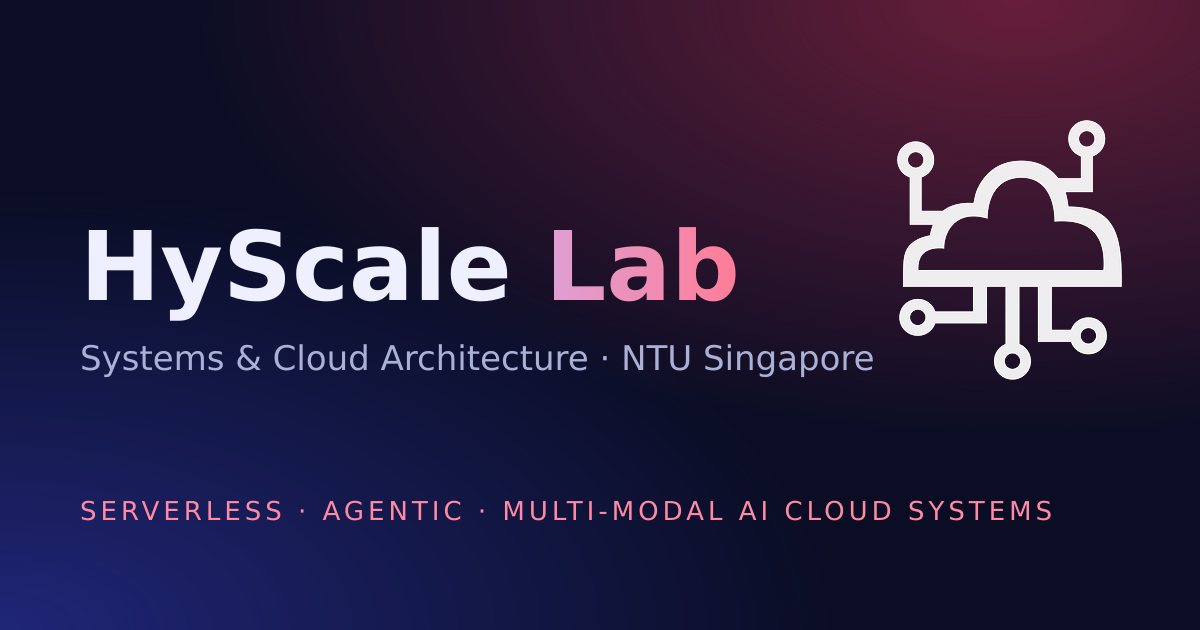
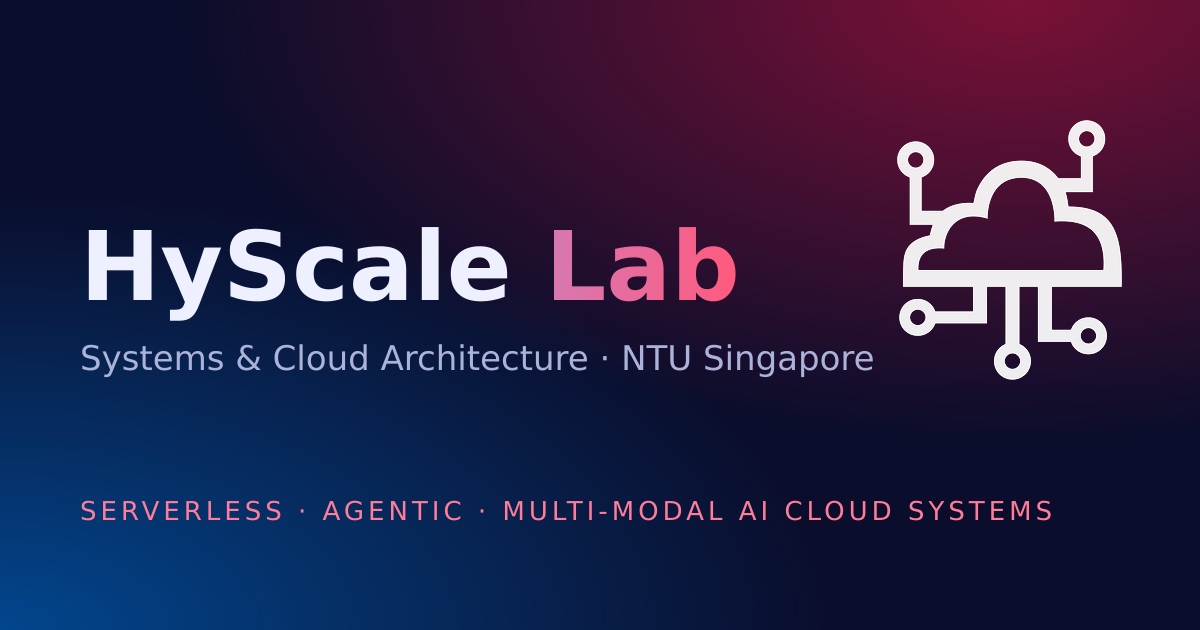
Adopt the NTU brand palette
Primary colours from the NTU brand guide (2018): NTU Red #D71440 is the
accent (main buttons, highlights, labels) and NTU Blue #181C62, already the
HyScale logo navy, is the strong brand colour and tints the dark bands.
Links use NTU secondary blue #0054A6 (#5DA9DD in dark mode) so they stand
apart from body text. Gradients, glows and the card accent bar use NTU
secondary colours, and so do the venue badges.

Award badges get a lighter pink background so NTU Red text passes WCAG AA,
and venue badges get a faint outline in dark mode so NTU Blue shows. The
link-preview image and icons are regenerated in the new palette.

Changed region(s): [[0.0, 0.8143, 0.185, 1.0], [0.4625, 0.3619, 0.6167, 0.4825]]

diff --git a/src/styles/global.css b/src/styles/global.css
@@ -10,38 +10,40 @@
  * THEME COLOURS LIVE HERE. Change a value below and the whole site follows.
  *   :root     light theme (default)       .dark   dark theme
  *   @theme    dark bands (hero, page headers, CTA, footer) and gradients
- * Colours come from the HyScale logo: navy cloud (#171d63), slate wordmark
- * (#3b3a5a) and crimson brackets (#a82e48). Light is the default palette;
- * `.dark` swaps the same tokens. Components use the Tailwind names below
- * (bg-surface, text-muted, border-line, …), never raw hex values. */
+ * Palette follows the NTU brand guide (2018): NTU Blue #181C62 (also the
+ * HyScale logo navy) and NTU Red #D71440 are the primary colours; the other
+ * hues come from NTU's secondary palette (blues #0054A6, #5DA9DD, magenta
+ * #A5247F). Light is the default palette; `.dark` swaps the same tokens.
+ * Components use the Tailwind names below (bg-surface, text-muted,
+ * border-line, …), never raw hex values. */
 :root {
   --c-bg: #ffffff;
-  --c-surface: #f5f6fb;
+  --c-surface: #f4f6fb;
   --c-raised: #ffffff;
-  --c-ink: #0f1330;
-  --c-muted: #555b78;
-  --c-line: #e3e5ef;
-  --c-brand: #252c8c;
-  --c-brand-strong: #171d63;
-  --c-brand-soft: #e9eafb;
-  --c-accent: #b32d4b;
-  --c-accent-soft: #fbe9ed;
-  --c-highlight: #fff3c4;
+  --c-ink: #10143f;
+  --c-muted: #535a7a;
+  --c-line: #e1e5ef;
+  --c-brand: #0054a6;
+  --c-brand-strong: #181c62;
+  --c-brand-soft: #e5eef8;
+  --c-accent: #d71440;
+  --c-accent-soft: #fff1f4;
+  --c-highlight: #fff4b8;
 }
 
 .dark {
-  --c-bg: #0a0d1f;
-  --c-surface: #10142b;
-  --c-raised: #151a36;
-  --c-ink: #e9ebf7;
-  --c-muted: #a1a6c4;
-  --c-line: #252b4d;
-  --c-brand: #9ea4ff;
-  --c-brand-strong: #c3c7ff;
-  --c-brand-soft: #1c2150;
-  --c-accent: #ff6b8a;
-  --c-accent-soft: #3a1622;
-  --c-highlight: #4a3d0c;
+  --c-bg: #090c24;
+  --c-surface: #0f1433;
+  --c-raised: #141a3e;
+  --c-ink: #e8ebf8;
+  --c-muted: #a3a9c8;
+  --c-line: #242b55;
+  --c-brand: #5da9dd;
+  --c-brand-strong: #a9cdee;
+  --c-brand-soft: #0f2a4d;
+  --c-accent: #ff5a7e;
+  --c-accent-soft: #3d0f1e;
+  --c-highlight: #4d4200;
   color-scheme: dark;
 }
 
@@ -64,19 +66,19 @@
   --font-sans: 'Rubik Variable', ui-sans-serif, system-ui, -apple-system, 'Segoe UI', sans-serif;
   --font-mono: 'JetBrains Mono Variable', ui-monospace, SFMono-Regular, Menlo, monospace;
   /* Night palette for the bands that stay dark in both themes (hero, CTA, footer). */
-  --color-night: #0a0d24;
-  --color-night-2: #141a4a;
-  --color-night-ink: #eef0ff;
-  --color-night-muted: #aab0d6;
-  --color-night-accent: #ff8aa3; /* eyebrow labels on dark bands */
-  --color-night-accent-soft: #ffb3c3; /* hero eyebrow pill */
-  --color-glow-warm: #b32d4b; /* top-right glow on dark bands */
-  --color-glow-cool: #252c8c; /* bottom-left glow on dark bands */
+  --color-night: #0a0d2b;
+  --color-night-2: #181c62; /* NTU Blue */
+  --color-night-ink: #eef1ff;
+  --color-night-muted: #abb3d9;
+  --color-night-accent: #ff7d99; /* eyebrow labels on dark bands */
+  --color-night-accent-soft: #ffadbf; /* hero eyebrow pill */
+  --color-glow-warm: #d71440; /* NTU Red: top-right glow on dark bands */
+  --color-glow-cool: #0054a6; /* NTU secondary blue: bottom-left glow */
   /* Gradient used for highlighted headline words, stat numbers and card accents. */
-  --color-grad-from: #8f96ff;
-  --color-grad-via: #c7b8ff;
-  --color-grad-to: #ff7d98;
-  --color-grad-mid: #6b5bd6; /* middle stop of the thin card accent bar */
+  --color-grad-from: #5da9dd; /* NTU secondary light blue */
+  --color-grad-via: #b98fd8;
+  --color-grad-to: #ff5a7e; /* light NTU Red */
+  --color-grad-mid: #a5247f; /* NTU secondary magenta: middle of the card accent bar */
   --animate-marquee: marquee 40s linear infinite;
 }
 
